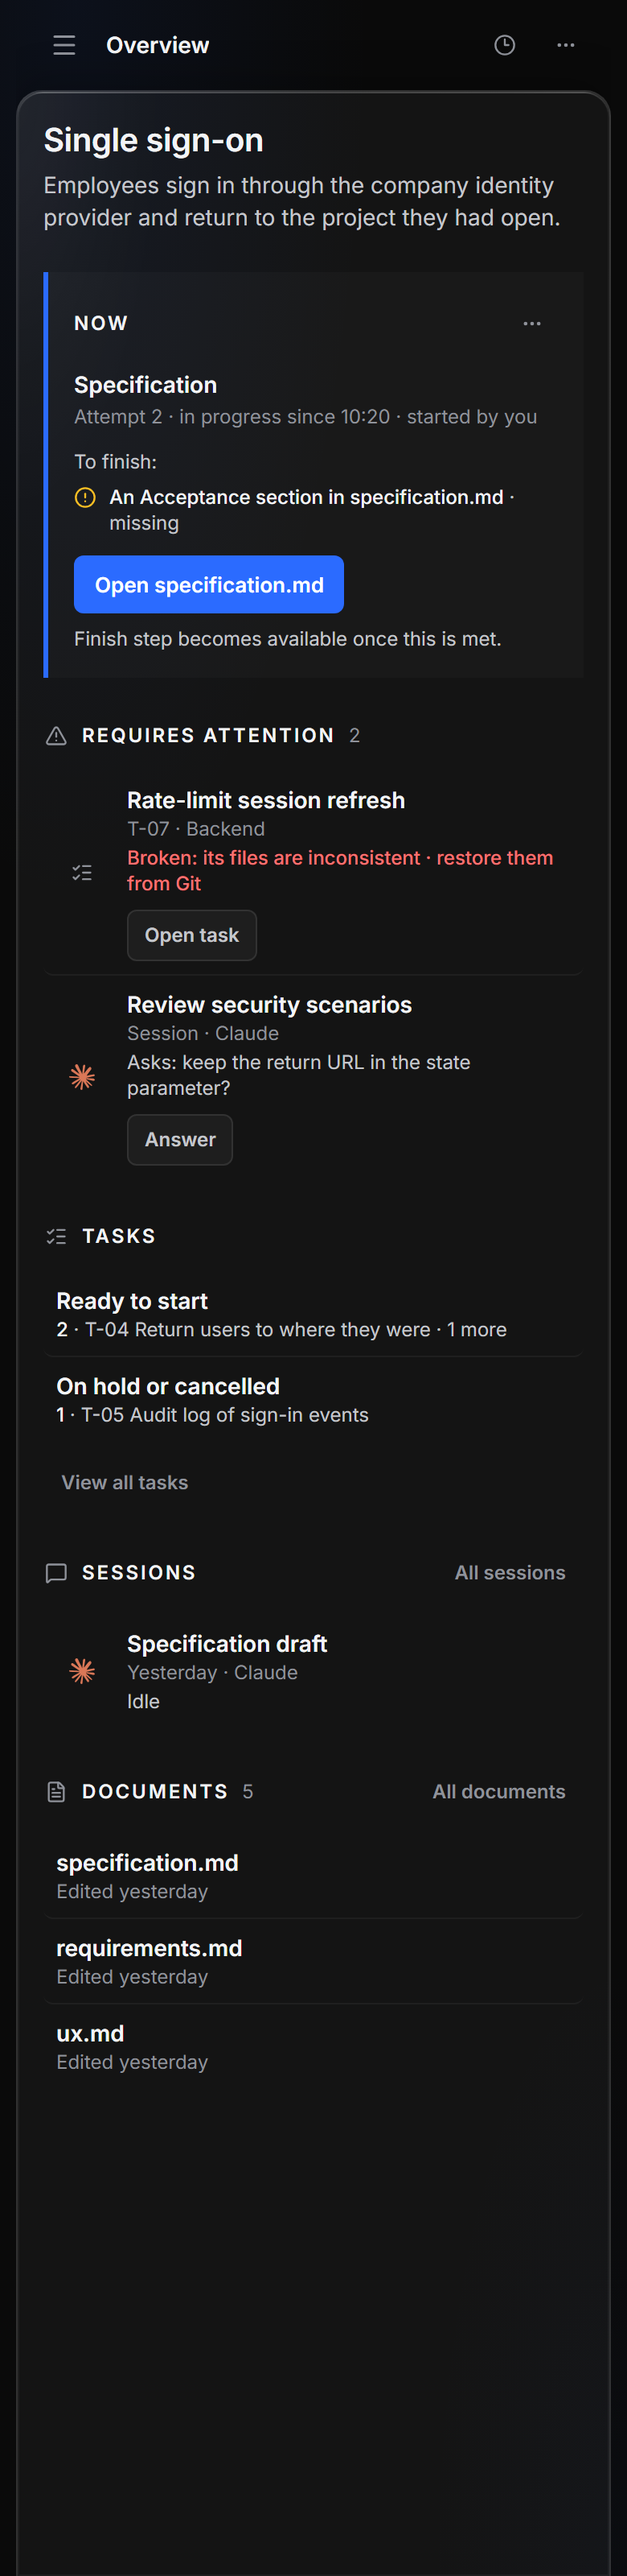
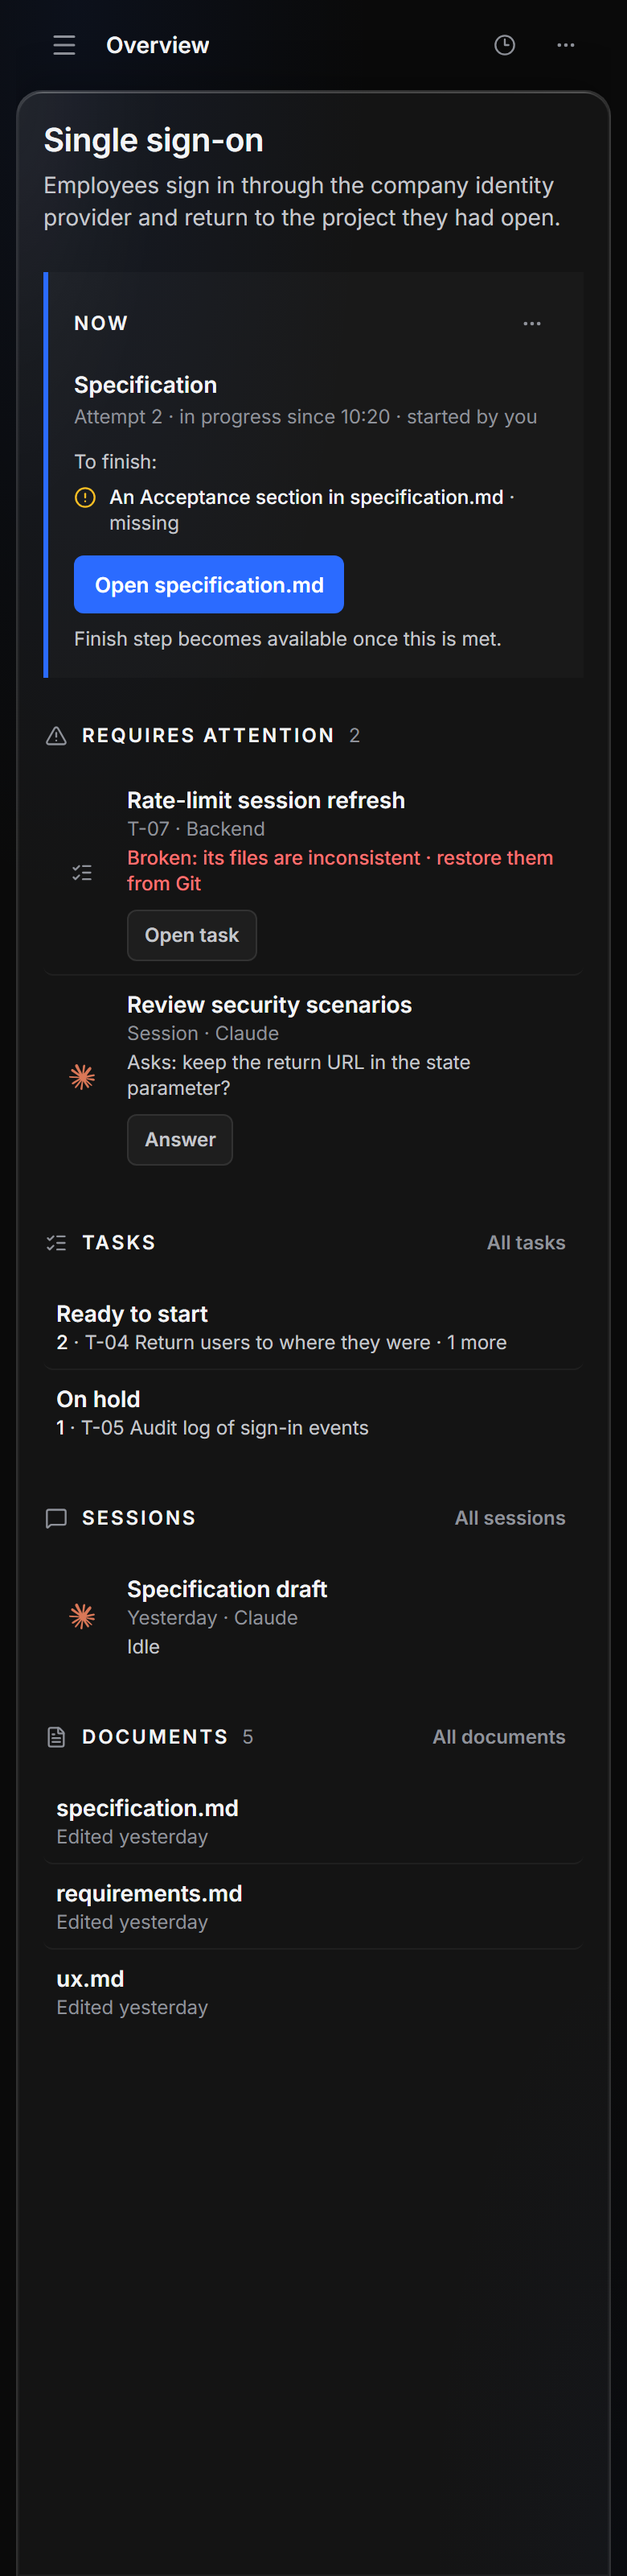
chore: Overview round 2 decisions applied, screenshots (not for merge)

diff --git a/shots/overview-grouping-attention.md b/shots/overview-grouping-attention.md
@@ -1,54 +1,77 @@
 # Overview: workflow state, grouping and attention
 
-Analysis for the control-center Overview after merging the feature head 84c78b36 (production T11).
-Mock: `SpecFlow/Screens/Specification control center (mock)`, screenshots `ovw2-*.png`.
+Analysis for the control-center Overview, updated with the owner decisions of 2026-11-13 (1A–7A),
+on feature head 13afabe3. Mock: `SpecFlow/Screens/Specification control center (mock)`; screenshots
+`ovw2-*.png`. Contract: `docs/ideas/specflow-engine/reusable-workflow-manual-execution/ux-contract.md`.
 
-## 1. What the code and accepted contracts already decide
+## 1. Ownership (decided, 5A)
 
-| Concern | Where it lives today | Accepted rule |
+| Concern | Owner | Holds |
 | --- | --- | --- |
-| **Workflow state** (authoritative) | Engine runs + action projection (`inspectActions`, `WorkflowRunPosition`, `StartBlocker`, gates) | The UI never derives behaviour from labels; actions come from the projection. |
-| **Attention** (human intervention) | Engine `deriveAttention` (`workflow/attention/model.ts`, `operations/attention.ts`), reasons `owner-action`, `human-step`, `model-missing`, `provider-not-chosen`, `session-unavailable`, `archetype-missing`, `tasks-stuck`, `task-escalated`; plus broken Tasks and Session attention, merged in the Runtime (`features/tasks/workspace/engine-contribution.ts`) into the Overview's **Requires attention** | ADR 0019 + kernel: attention is **derived, never stored**, at most one item per subject, none for a subject that is active, not started or terminal, **none for a Task that is not `ready`**, and **a Task never gets attention just because it is ready** (owner starts Tasks; F12 "Run selected Tasks"). Overview order: Requires attention first ([Specification Overview](../../../product/specflow/ui/specification-overview.md)). |
-| **Grouping** (presentation) | Engine `laneOf` → `TaskLane` (`needs-approval`, `in-progress`, `ready`, `waiting`, `blocked`, `done`, `ended`, `held`, `cancelled`, `broken`); Runtime `GROUPS` constant maps lanes to the Overview's groups (Needs approval … On hold or cancelled) sent as data | "Task groups are configured by the project and supplied by the backend in display order"; "do not apply the Specifications list's Requires attention / Active / Ready / Draft taxonomy to Tasks" (Specification screen open items). |
+| **Workflow state** | Engine (kernel) | Authoritative states, transitions, execution semantics. Exposes **neutral facts** per Task: preparation status, position (kind, step, attempt), run exists, terminal outcome, broken, dependency state, start blockers. |
+| **Attention** | Attention projection (ADR 0019 + extension) | Which subjects need a person: reason, required actor, available action. Never inferred from a status or group name. |
+| **Grouping** | Dashboard configuration (data) | Groups, labels, order, facts→group mapping, summary prominence, default collapse. Default is internal data; per project or per user later. |
 
-## 2. Contradictions in my previous mocks (actual)
+Rules: a Task is in exactly one group and may independently require attention. Available actions
+are not attention (ready-to-start offers Start, a draft offers Approve; neither is attention by
+itself). No Task appears twice across Overview sections (Now's explanation excepted); the full
+inventory lives on the Tasks page.
 
-1. **Ready-to-start Tasks as attention** (`Start Design` row): contradicts ADR 0019 / kernel ("no attention just because ready"). Removed.
-2. **Draft approval as attention** (`Approve` row): not an Engine attention reason; drafts are not `ready`. Removed from Requires attention; drafts stay visible in their group (Needs approval). Whether approval *should* become attention is an open product decision (below).
-3. **"Cannot start: context missing" on a not-started Task as attention**: a start blocker of a not-started Task is not Engine attention (nothing is derived for not-started subjects). Removed; the Task page/row shows the blocker.
-4. **"Active tasks" built from hard-coded state filters** (`status === 'ready' && kind === 'active'`): bypassed the configured grouping. Replaced by a summary of the configured groups.
+## 2. What contradicted this before
 
-## 3. Presentation-only issues (fixed in the mock)
+1. Ready-to-start and draft approval shown as attention (ADR 0019 / kernel: no attention just for
+   being ready; drafts are not `ready`). Removed; draft rows are neutral.
+2. "Active tasks" built from hard-coded state filters. Replaced by the configured grouping.
+3. **T8a put presentation into the Engine:** `TaskLane` / `laneOf` (`workflow/operations/execution-read.ts`)
+   mixes preparation status, position and a presentation classification; `TaskResource.lane` carries
+   it into the contract and the Runtime derives the status line from it (`STATUS_OF_LANE`). The
+   Runtime's `GROUPS` constant maps lanes to groups in code.
+4. The Runtime sends raw reason codes (`"<step>: <reason>"`) in Requires attention.
 
-- Long titles vs action buttons on Narrow: the action moves under the title and reason.
-- Group count orphaned on Narrow: folded into the row text.
-- Tasks page checkboxes implied a working bulk action: removed until F12 defines "Run selected tasks" (today Execute opens a "not implemented" dialog). Selection never bypasses workflow transitions when it returns: it starts each Task through `startTaskExecution`.
-- Attention on the Tasks page: the row keeps its group and shows "Requires attention · <reason>" (attention is a flag, not a state).
+## 3. Decisions applied in the mock
 
-## 4. The model the mock now follows
+- **1A** `tasks-stuck` (Engine: no open Task can progress without the owner) → one
+  Specification-level item, Task links, action **Review tasks**; no per-draft item. Mock state `stuck`.
+- **2A** Start blockers of approved, not-started Tasks: classified (table in the contract). Mock:
+  T-07 `context-unresolved` → attention with **Edit context**; T-03 waiting for T-02 → not attention,
+  Waiting group, "Waiting for T-02" on the row. The actor is carried; shown only when it is not the
+  viewer ("Needs the spec writer").
+- **3A** Now: "It cannot continue now: T-04 is a draft, T-05 is on hold and no other task is open."
+  with links; no action, no repeated attention entry.
+- **4A/7A** "Tasks" summary: rows for Needs approval, In progress, Ready to start, Waiting,
+  **On hold** (own row, not folded with terminal groups); Done and Cancelled as one compact link
+  line; Tasks named in Requires attention are counted, not named.
+- **5A** `dashboard-grouping.stories-support.ts`: neutral facts + declarative default config,
+  first match wins, "Other" fallback; both the Overview summary and the Tasks page use it.
+- **6A** No checkboxes or bulk actions; F12 deferred.
 
-```text
-Workflow state (Engine, authoritative) ──► lanes (Engine classification of state)
-                                         ──► grouping config (presentation: groups over lanes) ──► Tasks page groups, Overview group summary
-                                         ──► attention projection (Engine-derived items + broken + Sessions) ──► Requires attention, row flag
-```
+## 4. Where the default configuration lives (recommendation)
 
-- Overview: **Requires attention** (attention projection, actions from the projection) → **Tasks** (one row per non-empty group of the configured grouping: count + a few titles; a Task already in Requires attention is counted, not named) → Sessions, Documents.
-- Tasks page: groups from the same grouping config; attention as a row marker.
-- Now: Specification-level state and progress.
+**Runtime presentation layer** (`specflow-runtime/src/features/tasks/workspace/`), not the UI:
+the accepted contract already has the backend supply groups as data in display order; one
+evaluation serves the Overview summary, the Tasks page and other clients (CLI, MCP); later project
+or user overrides need Runtime-owned settings; the UI stays render-only. Not the Engine/kernel
+(no presentation concepts there). Cost of the alternative (UI): duplicated mapping per client and
+a break with the "groups supplied by the backend" rule.
 
-## 5. Backend changes this implies (propose; not implemented)
+## 5. Engine/Runtime changes requiring separate implementation work
 
-1. **Grouping as data.** Move the Runtime `GROUPS` constant into a default grouping configuration (project-level, overridable), mapping lanes — later workflow positions (step ids/kinds per Task Type) — to named, ordered groups. The Runtime keeps delivering groups as data; the UI renders them.
-2. **Lanes stay a state classification**, without attention meaning. `needs-approval` is preparation status, not attention; keep the name or rename to `draft` to avoid the overlap.
-3. **Attention per Task as a flag on the Task read** (from the existing `deriveAttention` + broken), so the Tasks page can mark rows; the Overview list stays the aggregated items.
-4. **Human-readable attention reasons** (today the Runtime sends `"<step>: <reason code>"`): a step title and a localized reason, plus the projection's action for the item (e.g. start the next step).
+1. Remove `TaskLane` / `laneOf` from the Engine (`execution-read.ts`, export in `workflow/index.ts`);
+   expose neutral Task facts in the read model.
+2. Contracts: replace `TaskResource.lane` / `TaskLaneSchema` with facts; Runtime `taskStatusOf` /
+   `STATUS_OF_LANE` derive the status line from facts.
+3. Dashboard default grouping config module in the Runtime presentation layer (validated at load),
+   replacing `GROUPS` in `engine-contribution.ts`; groups sent as data with summary prominence.
+4. Attention projection extension: start blockers of approved, not-started Tasks that need a person
+   → items with reason (code + human text), required actor, action (command + label); dependency
+   waiting and `context-awaited` stay non-attention.
+5. Specification-level `tasks-stuck` item with affected Task ids (`attention.taskIds`, always set)
+   through the Runtime attention list, action opening the Tasks page at those Tasks.
+6. Human-readable attention reasons and a per-Task attention flag on the Task read.
+7. Now explanation data: `tasks-stuck` Task ids with each Task's blocking fact.
+8. Per-Specification Sessions read (this Specification's Sessions; recommended first).
 
-## 6. Unresolved product decisions (not invented in the mock)
+## 6. Still open (small)
 
-1. Is **draft approval** attention (owner action that blocks the Specification), or only the Needs approval group? Today: group only.
-2. Is a **start blocker** of an approved, not-started Task (missing context, definition changed) attention? Today: not (kernel rule); shown on the row.
-3. Should **`tasks-stuck`** name the Tasks that keep the Specification from progressing (drafts, on hold) in Now?
-4. Which groups the Overview's Tasks summary shows (all non-empty groups, or only non-terminal ones with Done / On hold folded into one line).
-5. Whether "Run selected tasks" (F12) returns to the Tasks page, and its parallelism (open in plan 06).
-6. Configurable grouping scope: per project, per Specification archetype, or per Task Type.
+- Target of **Review tasks**: the Tasks page filtered to the named Tasks, or scrolled to the first.
+- Whether Done/Cancelled compact links open the Tasks page expanded at that group (assumed yes).
